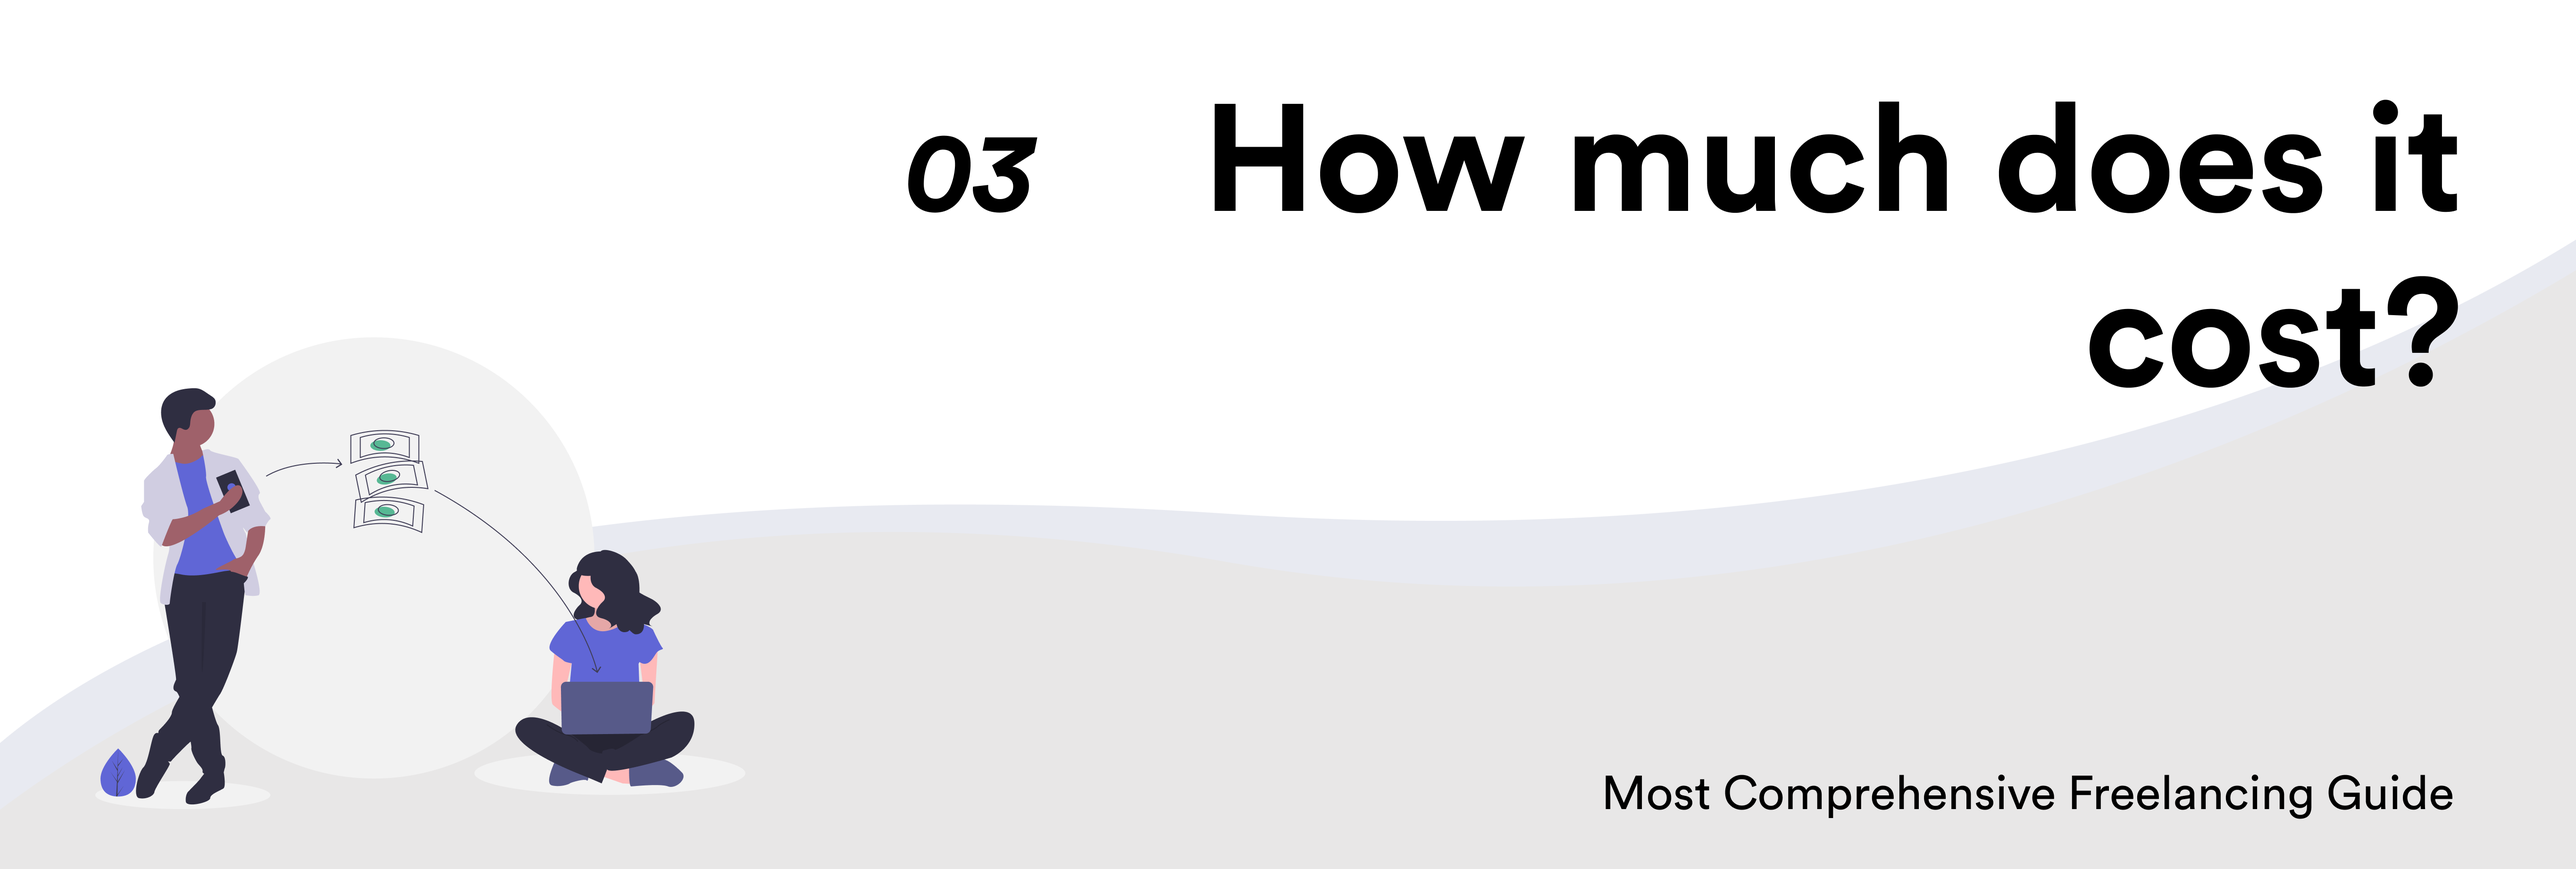
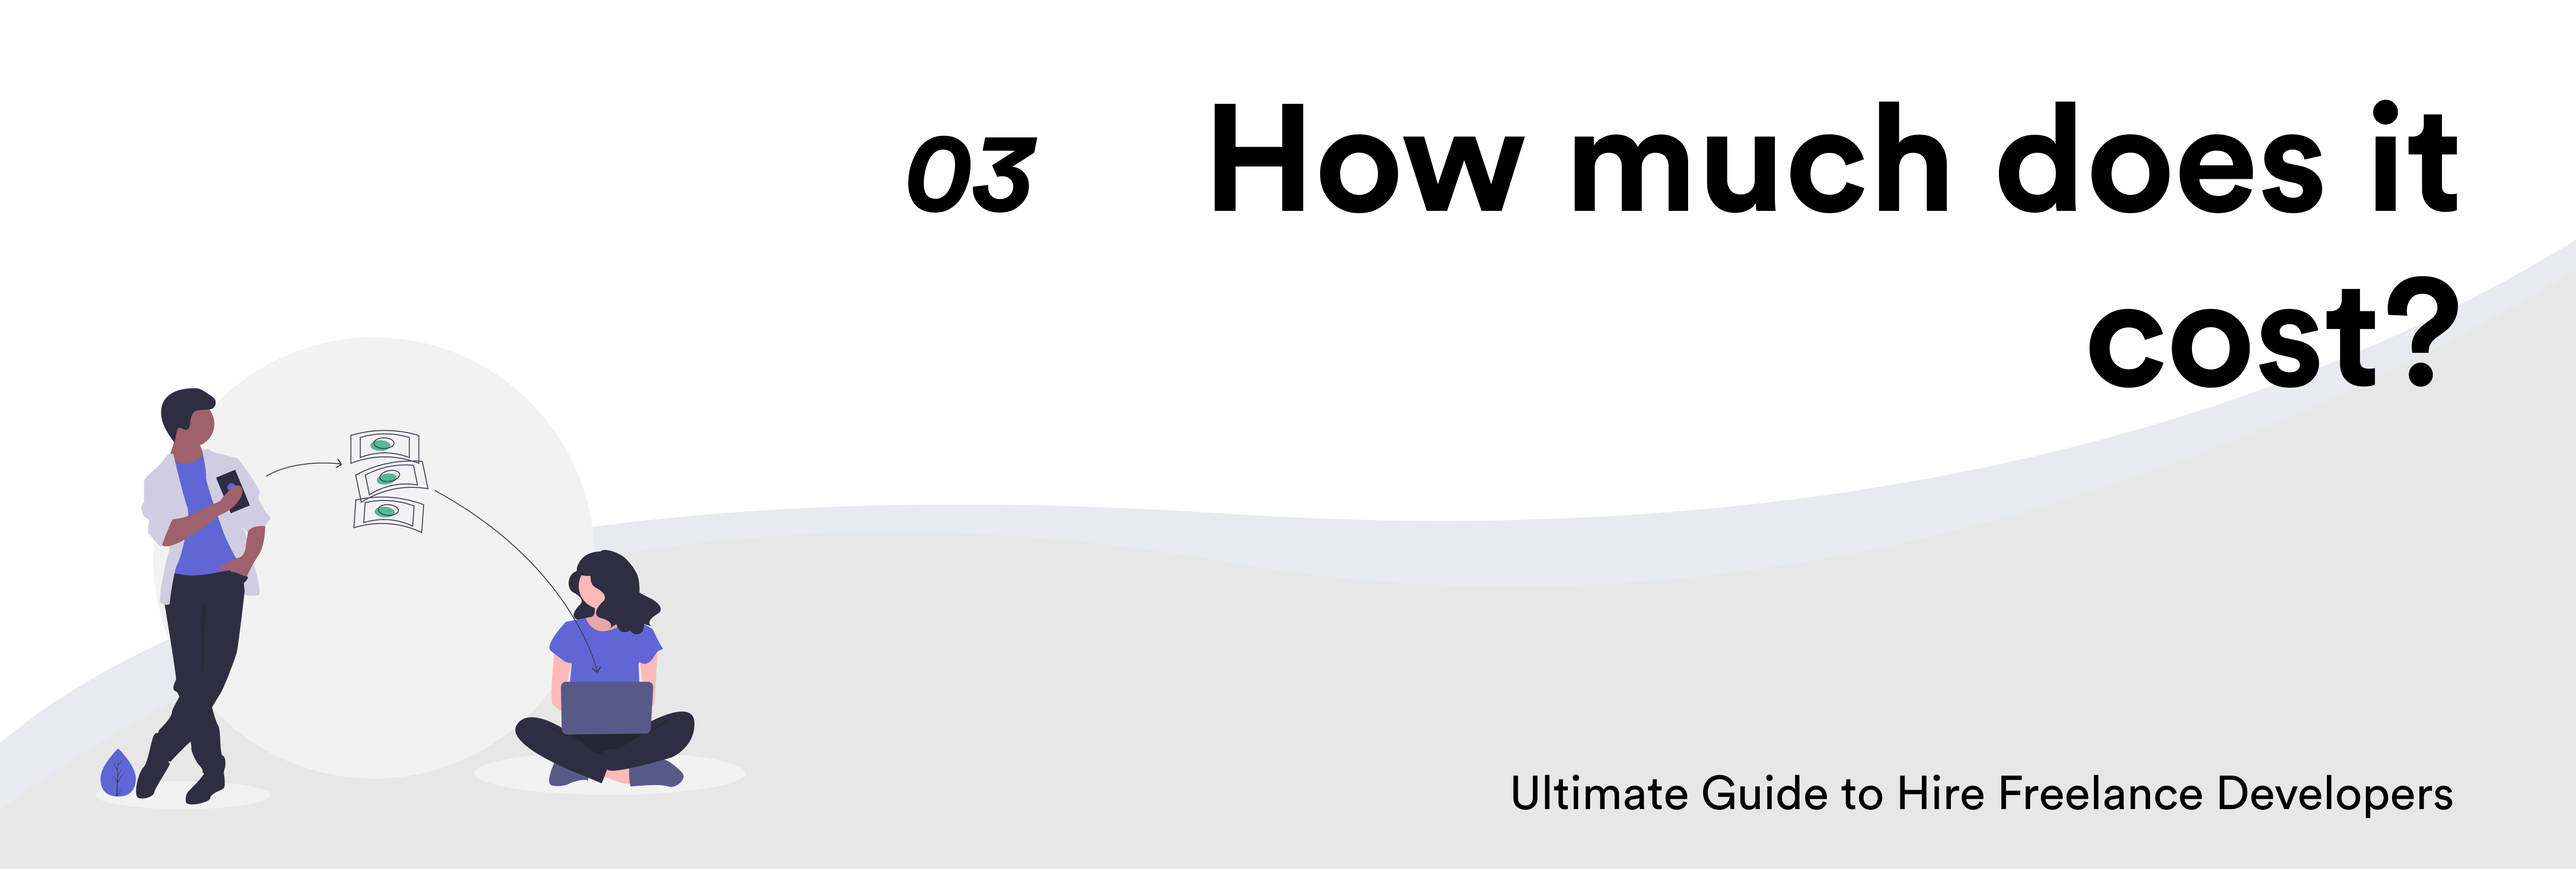
replacing graphics with ultimate freelancing guide text instead of most comprehensive

Changed region(s): [[0.5916, 0.8974, 0.9652, 0.9283]]

diff --git a/docs/.vuepress/config.js b/docs/.vuepress/config.js
@@ -1,6 +1,6 @@
 module.exports = {
   title: 'Freelance Developer Hiring Guide',
-  description: "The Most Comprehensive Guide to Hire Freelance Developers",
+  description: "The Ultimate Guide to Hire Freelance Developers",
   head: [
     [
       "link",

diff --git a/docs/README.md b/docs/README.md
@@ -1,10 +1,10 @@
 ---
-title: The Most Comprehensive Guide to Hire Freelance Developers
+title: The Utimate Guide to Hire Freelance Developers
 ---
 
 ![freelancer-guide-introduction.png](/assets/freelancer-guide-introdution.png)
 
-# The Most Comprehensive Guide to Hire Freelance Developers
+# The Ultimate Guide to Hire Freelance Developers
 
 ## Origins of freelance
 The first written reference of the word "freelance" can be traced to early 1800s in Sir Walter Scott's novel "Ivanhoe". A lord talks about his army of paid "free lances". The idea was of mercenaries who didn't have an affiliation to any nation but rather worked for an entity or a person who paid them the most.
@@ -15,7 +15,7 @@ Clearly, the usage of freelancers (or "free lances") is not new. If you were to 
 Of course, instead of being mercenaries without an allegiance to any single nation, modern freelancers have taken up less violent skills, and are defined by the concept of not being bound to a particular company.
 
 
-## Most Comprehensive Freelance Guide
+## Ultimate Freelance Guide
 In this guide, we intend to shed light upon every aspect of hiring a freelancer, but with a particular focus on freelance developers. To make it a coherent read, we have covered each topic in detail and in a specific sequence as listed below:
 
 * [Current Trends in the Freelance Market](/2-current-trends.md)
